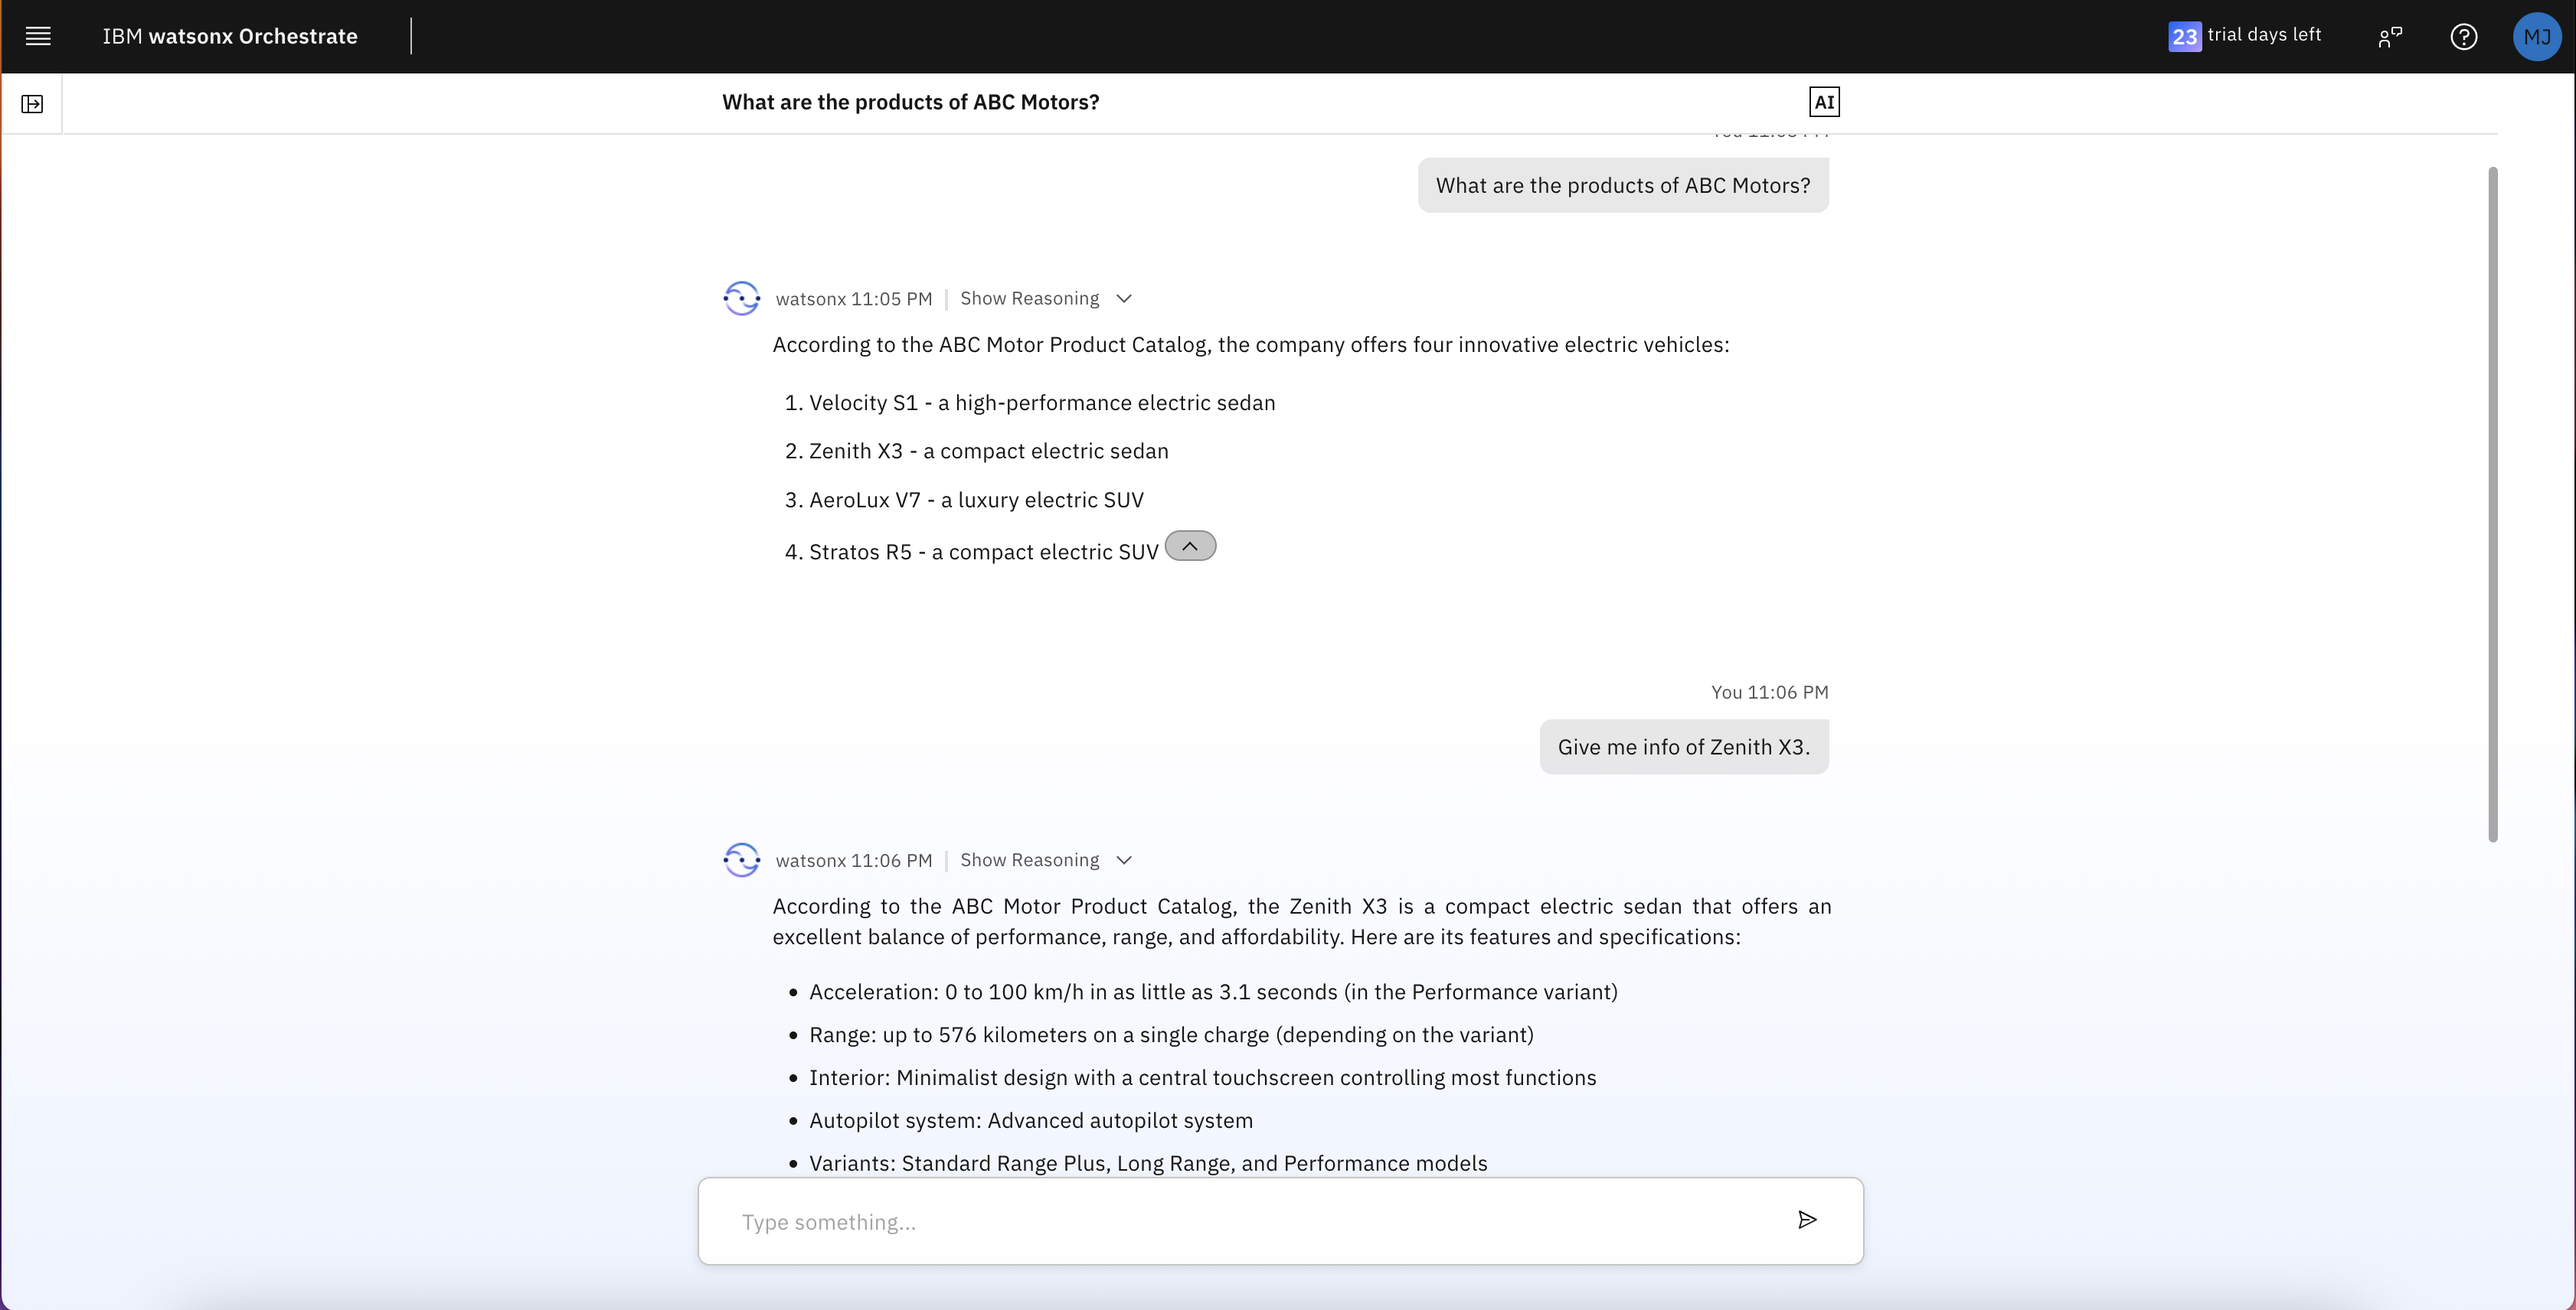
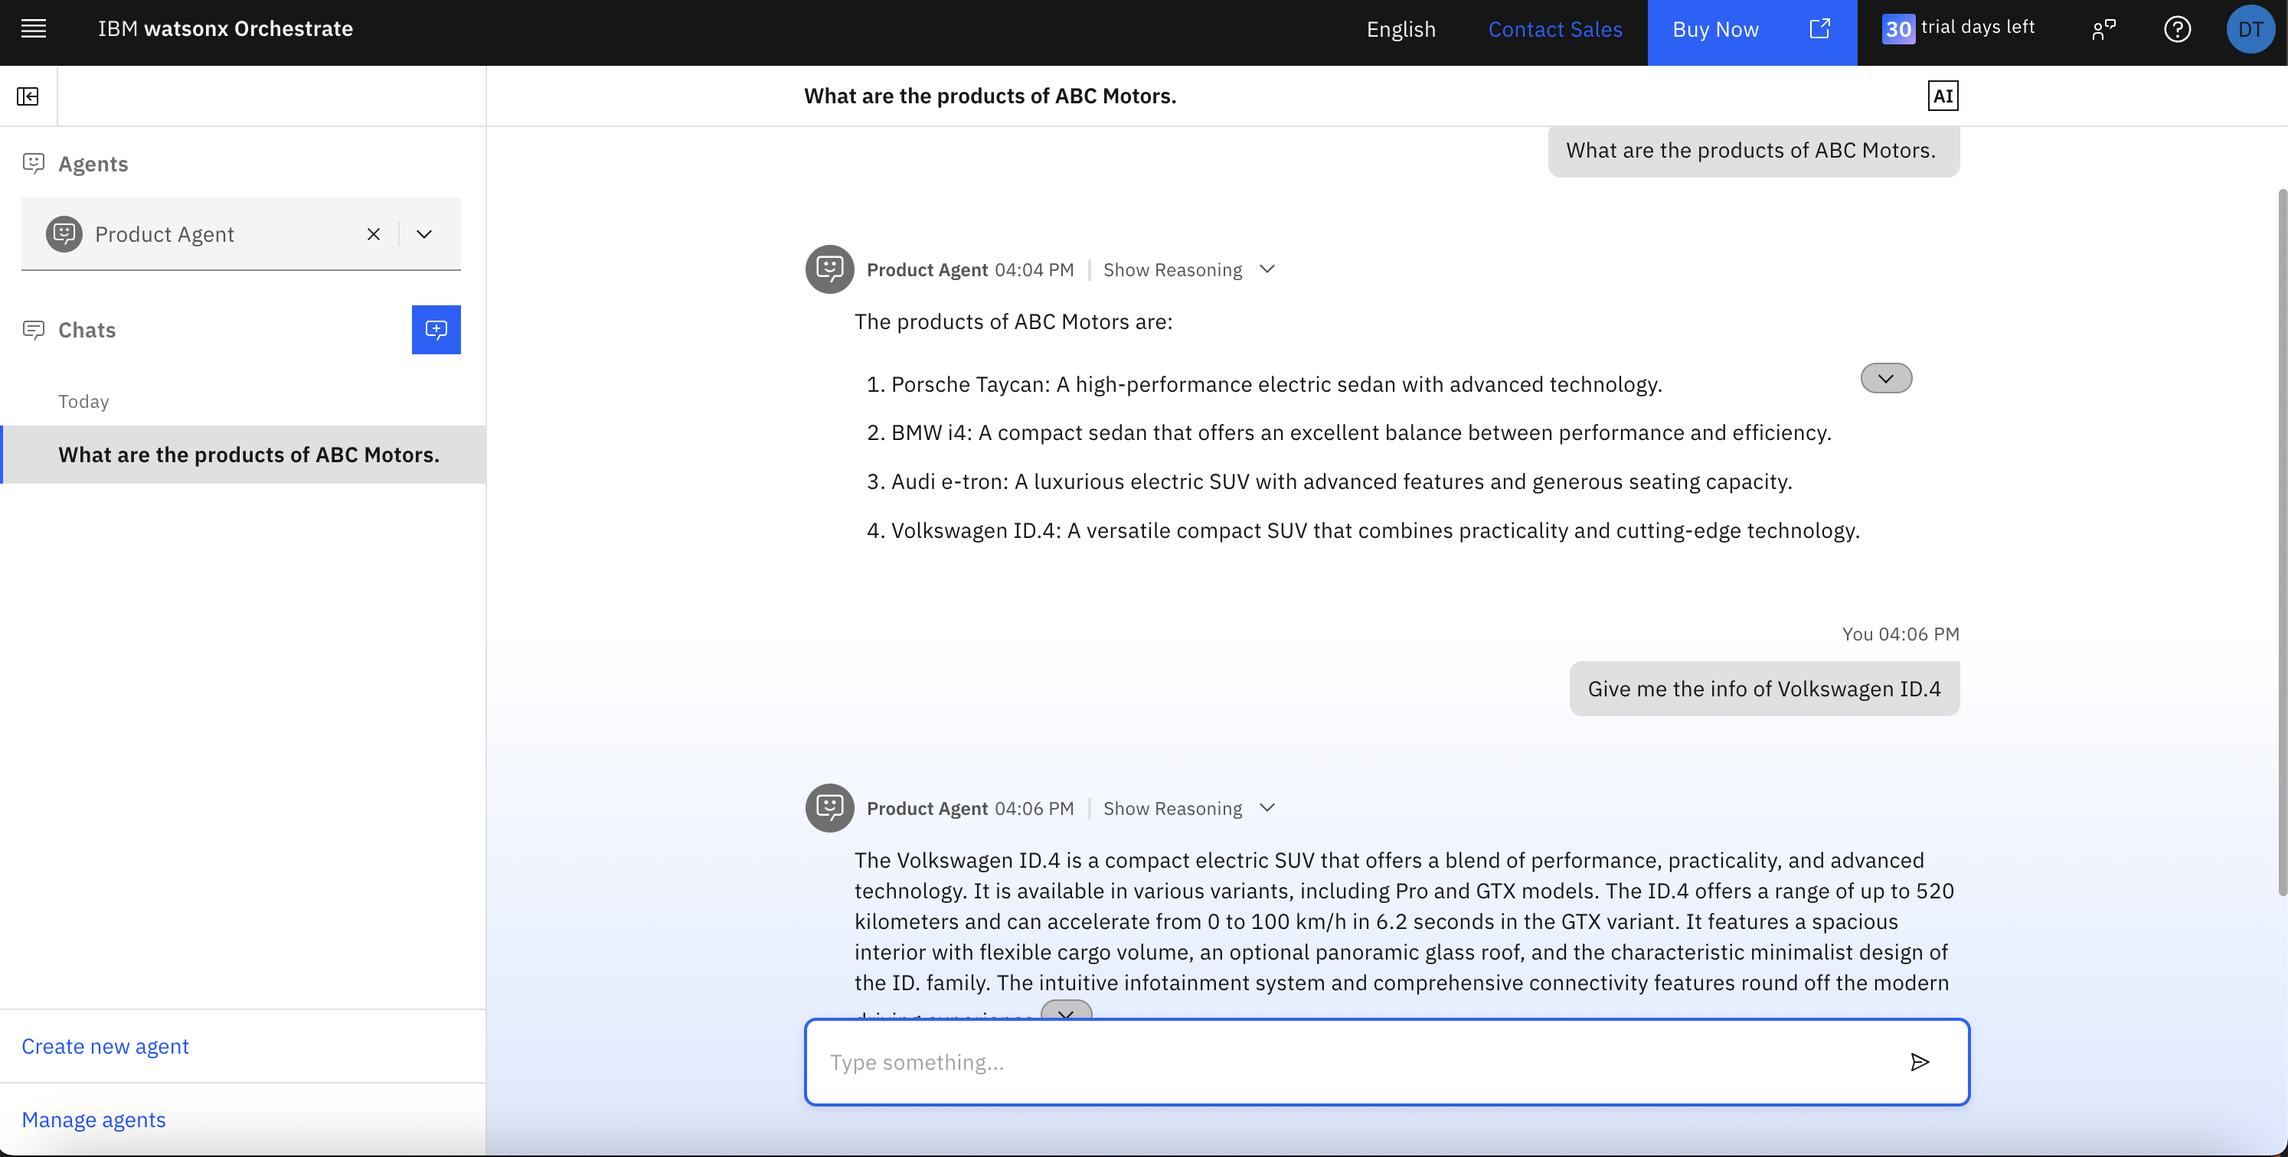
update business automation case

diff --git a/business-automation/hands-on-lab-business-automation.md b/business-automation/hands-on-lab-business-automation.md
@@ -1,19 +1,21 @@
 # 👨🏻💻 Use case: Business Automation   
 
 ## Table of Contents
-- [Architecture](#-architecture)
-- [Use Case Description](#use-case-description)
-- [Pre-requisites](#pre-requisites)
-- [Create a watsonx.ai Agent](#create-a-watsonxai-agent)
-  - [Comparison Agent](#comparison-agent)
-    - [Setup](#setup)
-    - [Configuration](#configuration)
-    - [Tools](#tools)
-    - [Saving and Deploying](#saving-and-deploying)
-- [Integrating watsonx.ai agent as an External Agent in watsonx Orchestrate](#integrating-watsonxai-agent-as-an-external-agent-in-watsonx-orchestrate)
-- [Create an Orchestrate Agent](#create-an-orchestrate-agent)
-  - [Product Agent](#product-agent)
-- [Experience Agents in Action](#experience-agents-in-action)
+- [👨🏻💻 Use case: Business Automation](#-use-case-business-automation)
+  - [Table of Contents](#table-of-contents)
+  - [🏛 Architecture](#-architecture)
+  - [Use Case Description](#use-case-description)
+  - [Pre-requisites](#pre-requisites)
+  - [Create a watsonx.ai Agent](#create-a-watsonxai-agent)
+    - [Comparison Agent](#comparison-agent)
+      - [Setup](#setup)
+      - [Configuration](#configuration)
+      - [Tools](#tools)
+      - [Saving and Deploying](#saving-and-deploying)
+  - [Integrating watsonx.ai agent as an External Agent in watsonx Orchestrate](#integrating-watsonxai-agent-as-an-external-agent-in-watsonx-orchestrate)
+  - [Create an Orchestrate Agent](#create-an-orchestrate-agent)
+    - [Product Agent](#product-agent)
+  - [Experience Agents in Action](#experience-agents-in-action)
 
 
 ## 🏛 Architecture  
@@ -29,16 +31,16 @@ The sales department of ABC Motor Corp, an automotive large player, when prepari
 **Instructors**: 
 - Check the corresponding [Instructor's guide](https://github.ibm.com/skol/agentic-ai-client-bootcamp-instructors/tree/main/usecase-setup/business-automation) to set up all environments and backend services.
   > NOTE: the `main` branch contains the latest release code. If you want to use a previous release, download the same [release](https://github.ibm.com/skol/agentic-ai-client-bootcamp-instructors/releases) that will be used for participants' lab. 
-- Provide access to the data file located in the instructor repo at `usecase-setup/business-automation/assets/ABC_Motor_Product_Catalog.pdf` that will be uploaded as knowledge.
+- Provide access to the data file `ABC_Motor_Product_Catalog.pdf` that will be uploaded as knowledge.
 
 **Participants**:
 - Validate that you have access to the right TechZone environment for this lab.
-- Complete the [environment-setup](../../environment-setup) guide for steps on API key creation and project setup.
-- Make sure you have created a [**watsonx** project](../../environment-setup/create-project.md) and a [Deployment Space](https://www.ibm.com/docs/en/watsonx/saas?topic=spaces-creating-deployment) in your **watsonx** project. 
+- Complete the [environment-setup](../environment-setup/README.md) guide for steps on API key creation and project setup.
+- Make sure you have created a [**watsonx** project](../environment-setup/create-project.md) and a [Deployment Space](https://www.ibm.com/docs/en/watsonx/saas?topic=spaces-creating-deployment) in your **watsonx** project. 
 - Validate that you have access to a credentials file that your instructor will share with you before starting the labs.
 - Familiarity with AI agent concepts (e.g., instructions, tools, collaborators...)
 - Make sure that your instructor has provided the following:
-  - data file to be uploaded as knowledge
+  - data file `ABC_Motor_Product_Catalog.pdf` to be uploaded as knowledge
 
 ## Create a watsonx.ai Agent
 
@@ -119,16 +121,16 @@ To deploy your agent on Orchestrate, follow the steps below:
 2. Click on the hamburger menu and select **Deployments**.  
 ![Deployments](assets/hamberger_agent_lab.png)
 
-3. Click on the **Spaces** tab and select the space where you deployed the agent.  
-![Spaces](assets/ca_dep.png)
+3. Click on the **View all deployment spaces** tab and select the space where you deployed the agent.  
+![Spaces](assets/hamburger_deployment_spaces.png)
 
-4. Click on the **Assets** tab and select the agent.  
+1. Click on the **Assets** tab and select the agent.  
 ![Asset tab](assets/ca_dep2.png)
 
-5. Then you will go the the main deployment page select your agent from the list.
+1. Then you will go the the main deployment page select your agent from the list.
 ![Deployment agent](assets/ca_dep3.png)
 
-6. Then copy the streaming **Public endpoint**.
+1. Then copy the streaming **Public endpoint** and save it somewhere, for example in a text file.
 ![Deployment agent](assets/ca_url.png)
 
 Now let's go to Orchestrate, create other agent and import this agent in that one.
@@ -172,26 +174,26 @@ In Orchestrate, we will create our main agent, as outlined below:
 6. After clicking the **Choose knowledge** button, a pop-up window will appear. Select **Upload Files**, then click **Next**.
    ![Knowledge](assets/BAP_5_K_2.png)
 
-7. Next, choose the knowledge source. In our case, it's the [Product Catalog](./assets/ABC_Motor_Product_Catalog.pdf). Drag and drop the file into the designated area.
+7. Next, choose the knowledge source. In our case, it's the [Product Catalog](./ABC_Motor_Product_Catalog.pdf). Drag and drop the file into the designated area.
    ![Knowledge](assets/BAP_6_K.png)
 
 8. Once the file is uploaded, the screen will look like the one below. Click **Next** to proceed.
   ![Knowledge](assets/BAP_7_K.png)
 
-9. Add the description below in the **Description** field, and then click **Save**.
+1. Add the description below in the **Description** field, and then click **Save**.
    **Description:**
    ```
    Your knowledge base is the document that contains all the product-related information. All queries related to the product will be addressed using this document as the primary source.
    ```
    ![Knowledge](assets/BAP_8_K.png)
 
-10. After completing all the above steps, your knowledge source will be added and will appear as shown in the image below.
+2.  After completing all the above steps, your knowledge source will be added and will appear as shown in the image below.
    ![Upload file](assets/BAP_9.png)
 
-11. Scroll down to the **Toolset** section, then in the **Agents** section click on the **Add Agent** button.
+3.  Scroll down to the **Toolset** section, then in the **Agents** section click on the **Add Agent** button.
    ![Add Agent](assets/BAP_10.png)
 
-12. From the pop-up menu, select the **Import**.
+4.  From the pop-up menu, select the **Import**.
    ![Add from local instance](assets/BAP_11.png)
 
 > **Note:** : We are now adding the Comparison Agent (an external agent) to the Product Agent, enabling it to delegate tasks to them.
@@ -235,27 +237,26 @@ Follow the steps above, then try interacting with the use case using these sampl
 1. Go to the hamburger menu and select **Chat**
    ![chat](assets/chat.png)
   
-
 1. Select the **Product Agent** from the dropdown menu, and you should be good to go.
    ![Product Agent](assets/BAP_14.png)
 
 1. Product Agent
 
    Ask the following queries which should be routed to the Product Agent:
-   ```
-   What are the products of ABC Motors.
-   ```
-   ```
-   Give me the info of Zenith X3.
-   ```
+
+   ```What are the products of ABC Motors.```
+
+   ```Give me the info of Volkswagen ID.4.```
+
    ![Product Agent Response](assets/chat_1.png)  
 
 3. Comparison Agent
 
    To compare the retrieved data, ask:
    ```
-   Give me URLs of the competitors of the above product and show me the comparison as well.
+   Give me the top 3 competitors of the above product and show me the comparison as well.
    ```
+   
    ![Comparison Agent Response](assets/chat_2.png)  
    ![Comparison Agent Response 2](assets/chat_3.png)
 
